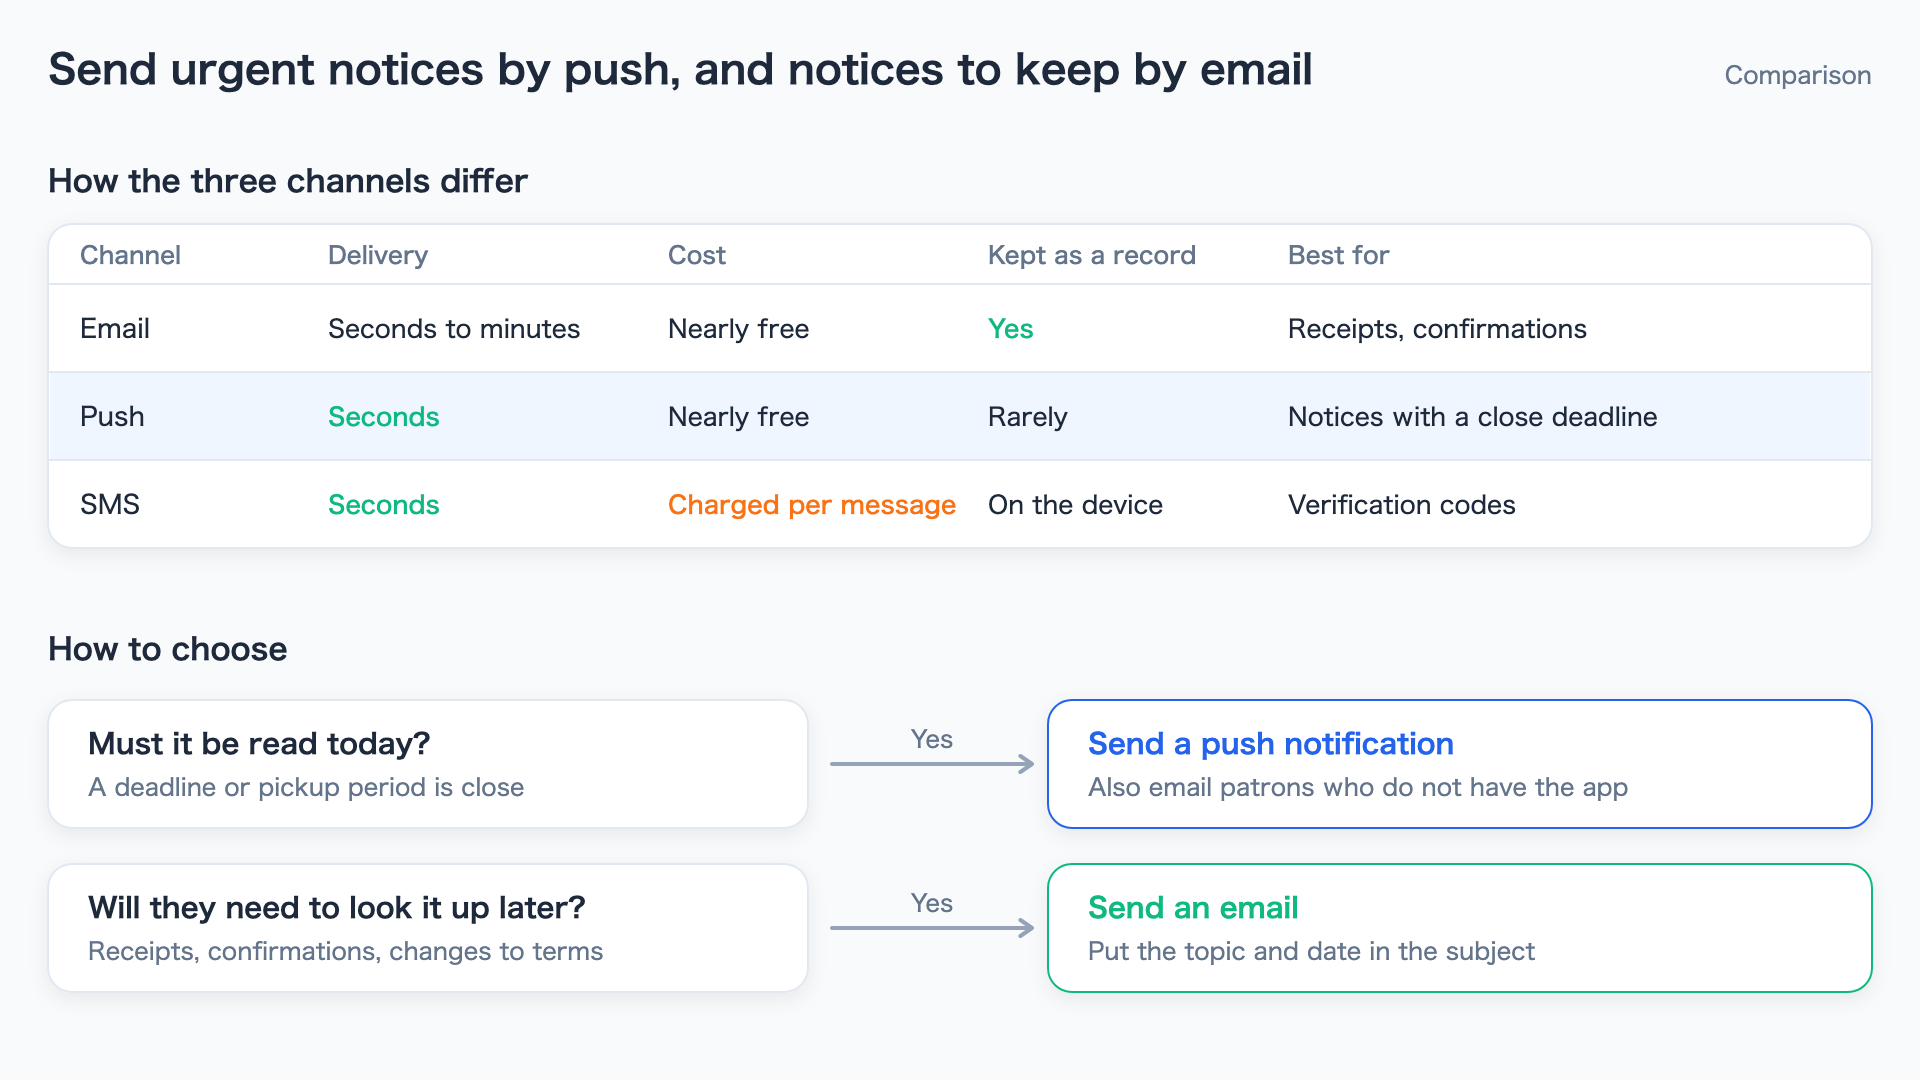
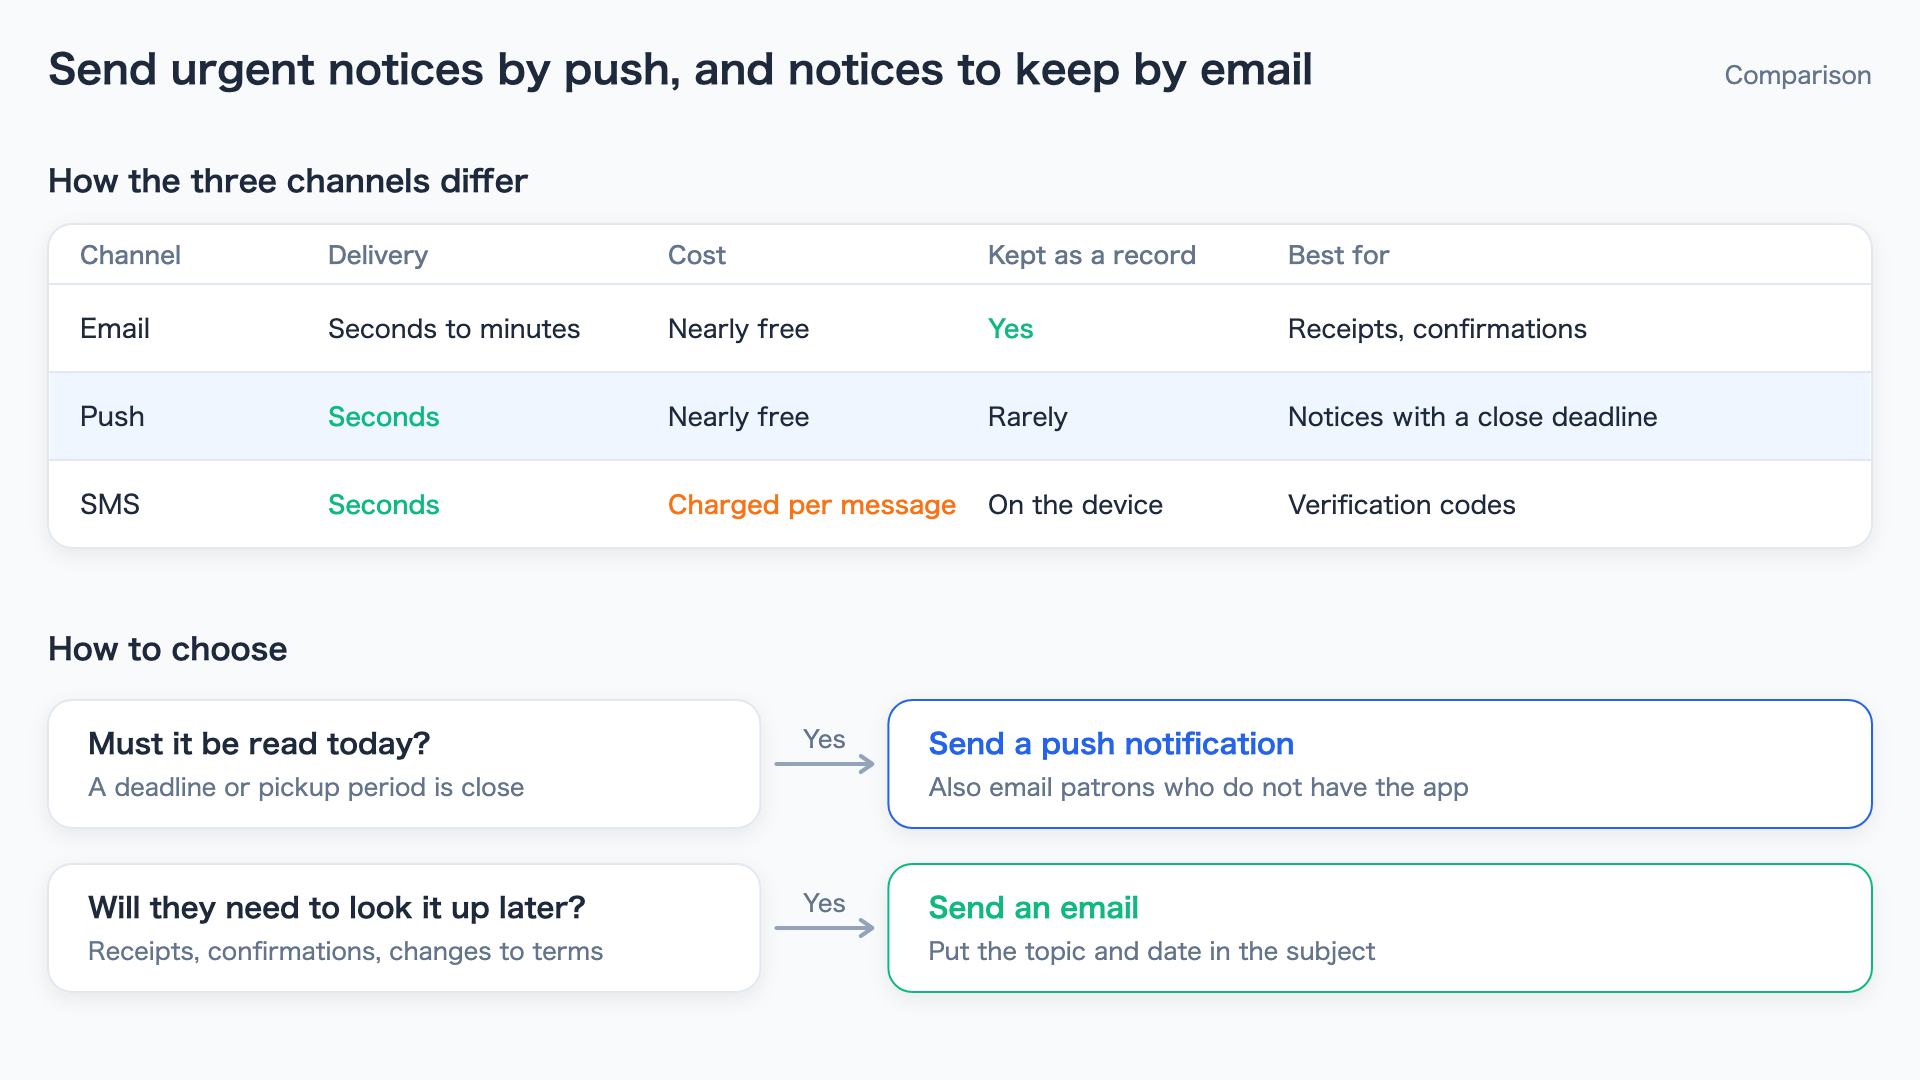
feat: add sequence, rule_row, and action_list parts
- sequence(): actor boxes with dashed lifelines and numbered messages
  whose labels sit on a background fill over the lifelines.
- rule_row(): "if this, then that" row with a labeled arrow.
- action_list(): follow-up rows with title, description, and status.
- Use rule_row and action_list in the examples, add a sequence diagram
  example, and cover the new parts in the gallery tests.

Changed region(s): [[0.4062, 0.6722, 0.8438, 0.7639], [0.4062, 0.825, 0.8125, 0.9167]]

diff --git a/plugins/svg-infographic/skills/svg-infographic/scripts/svgparts.py b/plugins/svg-infographic/skills/svg-infographic/scripts/svgparts.py
@@ -587,6 +587,72 @@ class Slide:
             if i < len(items) - 1:
                 self.line(x + 12, cy + 16, x + 12, cy + step - 16, C.LINE, 2)
 
+    # ---- sequences, rules, action lists ----
+    def sequence(self, y, actors, messages, step=30, head_h=44, left=None, right=None, numbered=True):
+        """Sequence diagram. actors = [(key, name, sub or None, accent or None), ...] are placed in equal columns
+        with a dashed lifeline below each. messages = [(from_key, to_key, label, accent or None), ...] are drawn
+        top to bottom, one row per step, with the label centered above the arrow on a background fill.
+        With numbered=True, labels are prefixed "1. ", "2. ", and so on.
+        Returns (x of each actor by key, y below the last message)."""
+        n = len(actors)
+        w, xs = self.columns(n, 12, left, right)
+        cx = {key: x + w / 2 for x, (key, *_rest) in zip(xs, actors)}
+        bottom = y + head_h + 24 + step * len(messages)
+        for x, (key, name, sub, accent) in zip(xs, actors):
+            self.box(x, y, w, head_h, name, sub=sub, color=accent or C.TEXT, border=accent or C.LINE)
+            self.raw(f'<path d="M{cx[key]:.1f},{y + head_h:.1f} V{bottom:.1f}" stroke="{C.LINE}" '
+                     f'stroke-width="1.5" stroke-dasharray="4 4"/>')
+        for i, (a, b, label, accent) in enumerate(messages):
+            if a == b:
+                raise ValueError(f"sequence(): message {i + 1} goes from {a!r} to itself")
+            yy = y + head_h + 30 + i * step
+            x1, x2 = cx[a], cx[b]
+            d = 1 if x2 > x1 else -1
+            color = accent or C.ARROW
+            self.connector(x1 + 6 * d, yy, x2 - 6 * d, yy, color)
+            text = f"{i + 1}. {label}" if numbered else label
+            tw = text_width(text, 12)
+            mid = (x1 + x2) / 2
+            self.raw(f'<rect x="{mid - tw / 2 - 4:.1f}" y="{yy - 19:.1f}" width="{tw + 8:.1f}" height="15" rx="3" '
+                     f'fill="{C.BG}"/>')
+            self.text(mid, yy - 7, text, 12, accent or C.SUB, 500 if accent else 400, "middle",
+                      max_width=self.W - 2 * self.M, on_line=True)
+        return cx, bottom
+
+    def rule_row(self, x, y, w, cond, result, cond_sub=None, result_sub=None, color=C.PRIMARY, label="Yes",
+                 split=0.42, h=64):
+        """One "if this, then that" row: a card with the condition, an arrow with a label, and a card with the
+        result in the accent color. split is the share of w given to the condition card. Returns y below the row."""
+        gap = max(64, text_width(label, 12) + 40)
+        cw = (w - gap) * split
+        rw = w - gap - cw
+        for cx_, cww, title, sub, accent in [(x, cw, cond, cond_sub, None), (x + cw + gap, rw, result, result_sub, color)]:
+            self.card(cx_, y, cww, h, accent or C.LINE)
+            ty = y + (27 if sub else h / 2 + 5)
+            self.text(cx_ + self.PAD, ty, title, 14, accent or C.TEXT, 600, max_width=cww - 2 * self.PAD)
+            if sub:
+                self.text(cx_ + self.PAD, y + 48, sub, 12, C.SUB, max_width=cww - 2 * self.PAD)
+        self.connector(x + cw + 8, y + h / 2, x + cw + gap - 8, y + h / 2, label=label)
+        return y + h
+
+    def action_list(self, y, items, x=None, w=None, h=46, gap=6, title_w=None):
+        """Rows of follow-up actions: title, description, and status.
+        items = [(title, description, status, status_color), ...]. title_w is the width of the title column
+        (by default the widest title plus 40px). Returns y below the last row."""
+        x = self.M if x is None else x
+        w = self.W - 2 * self.M if w is None else w
+        if title_w is None:
+            title_w = max(text_width(t, 14) for t, *_ in items) + 40 + self.PAD
+        status_w = max(text_width(st, 12) for _, _, st, _ in items) + 14 + self.PAD
+        for i, (title, desc, st, color) in enumerate(items):
+            ry = y + i * (h + gap)
+            self.card(x, ry, w, h)
+            self.text(x + self.PAD, ry + h / 2 + 5, title, 14, C.TEXT, 600, max_width=title_w - self.PAD - 12)
+            self.text(x + title_w, ry + h / 2 + 5, desc, 12.5, C.SUB,
+                      max_width=w - title_w - status_w - 16)
+            self.status(x + w - status_w, ry + h / 2 + 5, st, color)
+        return y + len(items) * (h + gap) - gap
+
     # ---- output ----
     def save(self, path, quiet=False):
         """Write the SVG and print the estimate-based warnings (unless quiet)."""

diff --git a/examples/gen_examples.py b/examples/gen_examples.py
@@ -50,18 +50,14 @@ s.table(s.M, 112, s.W - 2 * s.M, ["Channel", "Delivery", "Cost", "Kept as a reco
     ("SMS", ("Seconds", C.GREEN, 500), ("Charged per message", C.ORANGE, 500), "On the device", "Verification codes"),
 ], highlight=(1,), row_h=44)
 s.section(330, "How to choose")
-for i, (q, qsub, a, asub, color) in enumerate([
-    ("Must it be read today?", "A deadline or pickup period is close", "Send a push notification", "Also email patrons who do not have the app", C.PRIMARY),
-    ("Will they need to look it up later?", "Receipts, confirmations, changes to terms", "Send an email", "Put the topic and date in the subject", C.GREEN),
-]):
-    y = 350 + i * 82
-    s.card(s.M, y, 380, 64)
-    s.text(s.M + 20, y + 27, q, 14, C.TEXT, 600, max_width=340)
-    s.text(s.M + 20, y + 48, qsub, 12, C.SUB, max_width=340)
-    s.connector(s.M + 392, y + 32, 516, y + 32, label="Yes")
-    s.card(524, y, s.W - s.M - 524, 64, color)
-    s.text(544, y + 27, a, 14, color, 600, max_width=372)
-    s.text(544, y + 48, asub, 12, C.SUB, max_width=372)
+y = 350
+for cond, cond_sub, result, result_sub, color in [
+    ("Must it be read today?", "A deadline or pickup period is close",
+     "Send a push notification", "Also email patrons who do not have the app", C.PRIMARY),
+    ("Will they need to look it up later?", "Receipts, confirmations, changes to terms",
+     "Send an email", "Put the topic and date in the subject", C.GREEN),
+]:
+    y = s.rule_row(s.M, y, s.W - 2 * s.M, cond, result, cond_sub, result_sub, color) + 18
 done(s, "example-2-compare")
 
 
@@ -79,15 +75,36 @@ s.timeline(222, [
     ("9:20", "Recovered", ["Search responds at", "normal speed again"], C.GREEN),
 ])
 s.section(340, "Follow-up actions")
-y = 358
-for label, desc, st, color in [
+s.action_list(358, [
     ("Scale up before opening", "Run 4 servers from 8:30 on Mondays and after holidays", "Done", C.GREEN),
     ("Alert on CPU usage", "Notify the on-call person when CPU stays above 80% for 5 min", "Done", C.GREEN),
     ("Cache search results", "Return cached results for repeated searches to reduce load", "In progress", C.ORANGE),
-]:
-    s.card(s.M, y, s.W - 2 * s.M, 46)
-    s.text(s.M + 20, y + 28, label, 14, C.TEXT, 600, max_width=250)
-    s.text(s.M + 290, y + 28, desc, 12.5, C.SUB, max_width=500)
-    s.status(s.W - s.M - 110, y + 28, st, color)
-    y += 52
+])
 done(s, "example-3-incident")
+
+
+# ---- 4. Sequence diagram ----
+s = Slide("How a reservation is stored", "Order of messages between the patron, web app, API, database, and email service")
+s.header("Only the reservation API writes to the database", "Sequence diagram")
+cx, bottom = s.sequence(70, [
+    ("patron", "Patron", None, None),
+    ("web", "Web app", "browser", None),
+    ("api", "Reservation API", None, C.PRIMARY),
+    ("db", "Database", None, None),
+    ("mail", "Email service", None, None),
+], [
+    ("patron", "web", "Choose a book", None),
+    ("web", "api", "Request a reservation", None),
+    ("api", "db", "Check availability", C.PRIMARY),
+    ("api", "db", "Save the reservation", C.PRIMARY),
+    ("api", "web", "Queue position", None),
+    ("web", "patron", "Show the position", None),
+    ("api", "mail", "Send the confirmation", None),
+    ("mail", "patron", "Confirmation email", None),
+])
+s.section(bottom + 34, "Why the web app does not write directly")
+s.bullets(s.M, bottom + 62, s.W - 2 * s.M, [
+    "The API is the only place that decides the queue order, so two patrons never get the same position",
+    "Changing the database affects only the API, not the web app",
+], step=26)
+done(s, "example-4-sequence")

diff --git a/tests/test_svgparts.py b/tests/test_svgparts.py
@@ -85,7 +85,19 @@ def gallery():
     c.band(f(6), f(8), 320, 18, C.GREEN, "quiet")
     c.range_bar(500, 376, 436, "Response time", 120, 300, 500, "120–300 ms")
     c.ratio(500, 400, 436, "Total", "1,200", C.TEXT, "of which done", 0.6)
-    return {"gallery-a": a, "gallery-b": b, "gallery-c": c}
+    d = Slide("Parts gallery D", "Sequences, rules, and action lists")
+    d.header("Parts gallery D: sequences, rules, and action lists", "svgparts")
+    _, bottom = d.sequence(70, [("u", "Patron", None, None), ("w", "Web app", "browser", C.PRIMARY),
+                                ("a", "Reservation API", None, None), ("d", "Database", None, None)], [
+        ("u", "w", "Choose a book", None), ("w", "a", "Request a reservation", C.PRIMARY),
+        ("a", "d", "Save it", None), ("a", "w", "Queue position", None),
+        ("u", "d", "A message that passes over a lifeline", C.ORANGE)])
+    y = d.rule_row(d.M, bottom + 20, d.W - 2 * d.M, "Must it be read today?", "Send a push notification",
+                   "A deadline is close", "Also email patrons without the app")
+    d.action_list(y + 20, [("Scale up before opening", "Run 4 servers from 8:30", "Done", C.GREEN),
+                           ("Cache search results", "Return cached results for repeated searches", "In progress",
+                            C.ORANGE)])
+    return {"gallery-a": a, "gallery-b": b, "gallery-c": c, "gallery-d": d}
 
 
 class TextWidthTest(unittest.TestCase):
@@ -127,6 +139,11 @@ class DefaultsTest(unittest.TestCase):
         for name, s in gallery().items():
             with self.subTest(name):
                 self.assertEqual(s.warnings, [])
+
+    def test_sequence_rejects_message_to_itself(self):
+        s = Slide("t", "t")
+        with self.assertRaises(ValueError):
+            s.sequence(70, [("a", "A", None, None), ("b", "B", None, None)], [("a", "a", "loop", None)])
 
     def test_short_arrow_is_reported(self):
         s = Slide("t", "t")

diff --git a/plugins/svg-infographic/skills/svg-infographic/SKILL.md b/plugins/svg-infographic/skills/svg-infographic/SKILL.md
@@ -71,6 +71,9 @@ s.render("/path/out.png")   # also writes /path/out.svg and runs check()
 | `sketch(x, y, w, h, xlabels, ylabel)` | Frame for a schematic. Draw with the returned `line` / `area` / `label` in 0–1 coordinates. Writes "Schematic (not actual values)" automatically |
 | `scale(x, w, v0, v1)` / `band(x1, x2, y, h, color, label)` | A function that maps values to coordinates, and a band showing a time window or range. Use them to build a time-proportional axis |
 | `range_bar(x, y, w, label, lo, hi, vmax, value)` | Horizontal bar from minimum to maximum |
+| `sequence(y, actors, messages)` | Sequence diagram: a box and dashed lifeline per actor, and numbered messages in order. Returns the x of each actor and the y below the last message |
+| `rule_row(x, y, w, cond, result, cond_sub, result_sub, color)` | One "if this, then that" row: condition card, labeled arrow, and result card in the accent color |
+| `action_list(y, items)` | Rows of follow-up actions with a title, description, and status |
 
 Descriptions in `flow`, `chain` / `node`, and `timeline` can be a list of lines or a single string. A string is wrapped to the width of the part, and more than two lines is reported as a warning.
 
@@ -94,6 +97,9 @@ There are 24 icons: `user` `users` `building` `server` `database` `laptop` `ai` 
 
 - **When to use a diagram**
   - Something passes between people, systems, or data, or goes through them in order → `chain` / `node` / `connector`; boundaries of owners or environments → `zone`
+  - The order of requests and responses between several systems is the point (who calls whom, and when) → `sequence`. Use `chain` when each step goes one way to the next
+  - Rules of the form "if this, then do that" → one `rule_row` per rule. Use the decision diagram when the conditions depend on each other
+  - Follow-up actions or a to-do list with status (incident reviews, release checklists) → `action_list`
   - A procedure whose destination depends on a condition ("ACK if out of scope", "NACK on failure", etc.) → decision diagram (`decision` / `box` / `terminal` / `elbow` / `edge_label`). Do not write a procedure with several exits as bullets
   - Behavior changes by category (error categories, etc.) → arrows from category to behavior to result. Draw retries as a loop with `elbow`
   - The point is how a quantity changes over time, or the gap to a limit (backlog, capacity versus load, etc.) → schematic (`sketch`). State in the figure that it is not real data

diff --git a/README.md b/README.md
@@ -8,12 +8,16 @@ A [Claude Code](https://docs.claude.com/en/docs/claude-code) skill that draws bu
 |---|---|
 | ![Comparison table example](examples/example-2-compare.png) | ![Incident review example](examples/example-3-incident.png) |
 
+| Sequence diagram |
+|---|
+| ![Sequence diagram example](examples/example-4-sequence.png) |
+
 All examples are fictional. The script that draws them is [examples/gen_examples.py](examples/gen_examples.py).
 
 ## Features
 
 - **The heading states the conclusion**: "Cause: a Monday spike maxed out the search server's CPU", not "Cause". Each slide carries one message.
-- **Drawn with a parts library**: cards, arrows, tables, timelines, steps, zones, icons, and more live in a Python parts library ([svgparts.py](plugins/svg-infographic/skills/svg-infographic/scripts/svgparts.py)). Colors, font sizes, and weights are fixed inside the library, so every figure looks consistent.
+- **Drawn with a parts library**: cards, arrows, tables, timelines, steps, zones, sequence diagrams, rule rows, action lists, icons, and more live in a Python parts library ([svgparts.py](plugins/svg-infographic/skills/svg-infographic/scripts/svgparts.py)). Colors, font sizes, and weights are fixed inside the library, so every figure looks consistent.
 - **Checked with real fonts**: after rendering, the library opens the SVG in the browser and measures it. It reports text that overflows or crosses the edge of a card, overlapping text, arrows or lines that cross text, and arrows that enter a box. Claude then looks at the PNG for spacing and balance.
 - **Wraps text**: descriptions can be given as a single string and are wrapped to fit. English breaks at spaces; Japanese breaks after punctuation or particles and follows Japanese line-breaking rules.
 - **No metaphors**: wording such as "fight the fire" or "turbocharge" is rewritten literally, as "respond to the outage" or "halve the processing time".
